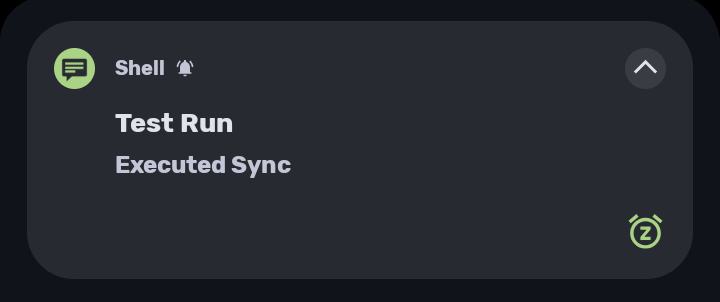
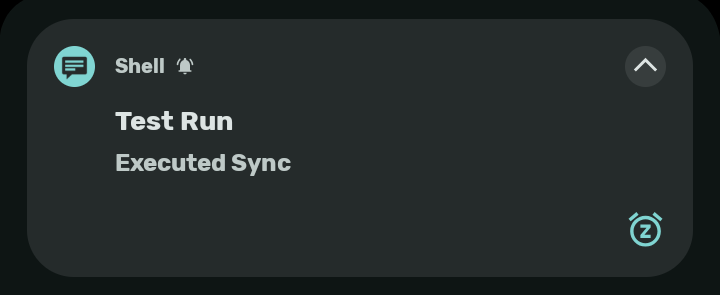
Update: README

diff --git a/README.md b/README.md
@@ -24,6 +24,9 @@
 
 The execution time is much faster than regular cleaning software on the market, comparable to ✈️ speed. The automation function is only handled by a very low-usage **Timed**, so the overhead is negligible. No software background process is required, no forced app binding, and it supports full functionality through a terminal **TUI**.
 
+![image](https://raw.githubusercontent.com/FLYCOM-E/ClearBox/main/.Images/app_home.png)
+![image](https://raw.githubusercontent.com/FLYCOM-E/ClearBox/main/.Images/clean_cache.png)
+
 __Compatible with [**Magisk**](https://github.com/topjohnwu/Magisk), [**APatch**](https://github.com/bmax121/APatch), [**KernelSU**](https://github.com/tiann/KernelSU), and their various forks__
 
 
@@ -152,6 +155,9 @@ Clear system software cache, system cache, and also clear **MTP** host data (can
 
 Feature automation, driven by the **Timed** component (ultra-low overhead).
 
+![image](https://raw.githubusercontent.com/FLYCOM-E/ClearBox/main/.Images/auto_clean.png)
+![image](https://raw.githubusercontent.com/FLYCOM-E/ClearBox/main/.Images/set_time.png)
+
 ### **•  Did you know?**
 
 You can use the **Timed** module to run custom tasks! Follow the configuration below:
@@ -248,6 +254,7 @@ This is an optimization function set, including disk optimization ( **f2fs-GC** 
 **F2fs** disk **GC**, this function belongs to emergency **GC**, so it does not need to be used frequently, just run it regularly.
 The solution comes from the big guy **Coolapk@Amktiao**, and has been agreed, thanks to the big guy!
 
+![image](https://raw.githubusercontent.com/FLYCOM-E/ClearBox/main/.Images/f2fs_gc.png)
 
 **Dexoat** software pre-compilation, that is, pre-compile software to accelerate runtime speed, the disadvantage is that it takes up storage space, which belongs to the space-electricity-for-smooth operation ()
 The module provides three modes in advance: system default **Dexoat**, custom compilation mode, **RESET**:

diff --git a/README_zh-CN.md b/README_zh-CN.md
@@ -24,6 +24,9 @@
 
 执行所用时间相对市面上普通清理软件来说快如✈️，自动化功能仅由一个极低占用 **Timed** 负责，开销可直接无视，无软件后台进程，不强制绑定 App，支持完整功能终端 **TUI**
 
+![image](https://raw.githubusercontent.com/FLYCOM-E/ClearBox/main/.Images/app_home.png)
+![image](https://raw.githubusercontent.com/FLYCOM-E/ClearBox/main/.Images/clean_cache.png)
+
 __兼容 [**Magisk**](https://github.com/topjohnwu/Magisk)、[**APatch**](https://github.com/bmax121/APatch)、[**KernelSU**](https://github.com/tiann/KernelSU) 及其各种分支__
 
 
@@ -152,6 +155,9 @@ iso img
 
 功能自动化，由 **Timed** 组件驱动执行（超低开销）。
 
+![image](https://raw.githubusercontent.com/FLYCOM-E/ClearBox/main/.Images/auto_clean.png)
+![image](https://raw.githubusercontent.com/FLYCOM-E/ClearBox/main/.Images/set_time.png)
+
 ### **•  您知道吗？**
 
 您可以利用此模块 **Timed** 运行自定义任务！请按照以下配置：
@@ -248,6 +254,7 @@ post=Test Run/已运行 Sync
 **F2fs** 磁盘 **GC**，此功能属于紧急 **GC**，因此不需要经常使用，定期运行即可。
 方案来自 **Coolapk@Amktiao** 大佬，已得到同意，感谢大佬！
 
+![image](https://raw.githubusercontent.com/FLYCOM-E/ClearBox/main/.Images/f2fs_gc.png)
 
 **Dexoat** 软件预编译，即提前编译软件加速运行时速度，缺点是占用储存空间，属于以空间电量换流畅操作（）
 模块预提供了三个模式：系统默认 **Dexoat** 、自定义编译模式、**RESET**：

diff --git a/README_zh-TW.md b/README_zh-TW.md
@@ -24,6 +24,9 @@
 
 執行所用時間相對市面上普通清理軟體來說快如✈️，自動化功能僅由一個極低佔用 **Timed** 負責，開銷可直接無視，無軟體後台進程，不強制綁定 App，支持完整功能終端 **TUI**
 
+![image](https://raw.githubusercontent.com/FLYCOM-E/ClearBox/main/.Images/app_home.png)
+![image](https://raw.githubusercontent.com/FLYCOM-E/ClearBox/main/.Images/clean_cache.png)
+
 __兼容 [**Magisk**](https://github.com/topjohnwu/Magisk)、[**APatch**](https://github.com/bmax121/APatch)、[**KernelSU**](https://github.com/tiann/KernelSU) 及其各種分支__
 
 
@@ -152,6 +155,9 @@ iso img
 
 功能自動化，由 **Timed** 組件驅動執行（超低開銷）。
 
+![image](https://raw.githubusercontent.com/FLYCOM-E/ClearBox/main/.Images/auto_clean.png)
+![image](https://raw.githubusercontent.com/FLYCOM-E/ClearBox/main/.Images/set_time.png)
+
 ### **•  您知道嗎？**
 
 您可以利用此模組 **Timed** 執行自定義任務！請按照以下配置：
@@ -248,6 +254,7 @@ post=Test Run/已執行 Sync
 **F2fs** 磁碟 **GC**，此功能屬於緊急 **GC**，因此不需要經常使用，定期執行即可。
 方案來自 **Coolapk@Amktiao** 大佬，已得到同意，感謝大佬！
 
+![image](https://raw.githubusercontent.com/FLYCOM-E/ClearBox/main/.Images/f2fs_gc.png)
 
 **Dexoat** 軟體預編譯，即提前編譯軟體加速執行時速度，缺點是佔用儲存空間，屬於以空間電量換流暢操作（）
 模組預提供了三個模式：系統預設 **Dexoat** 、自訂編譯模式、**RESET**：